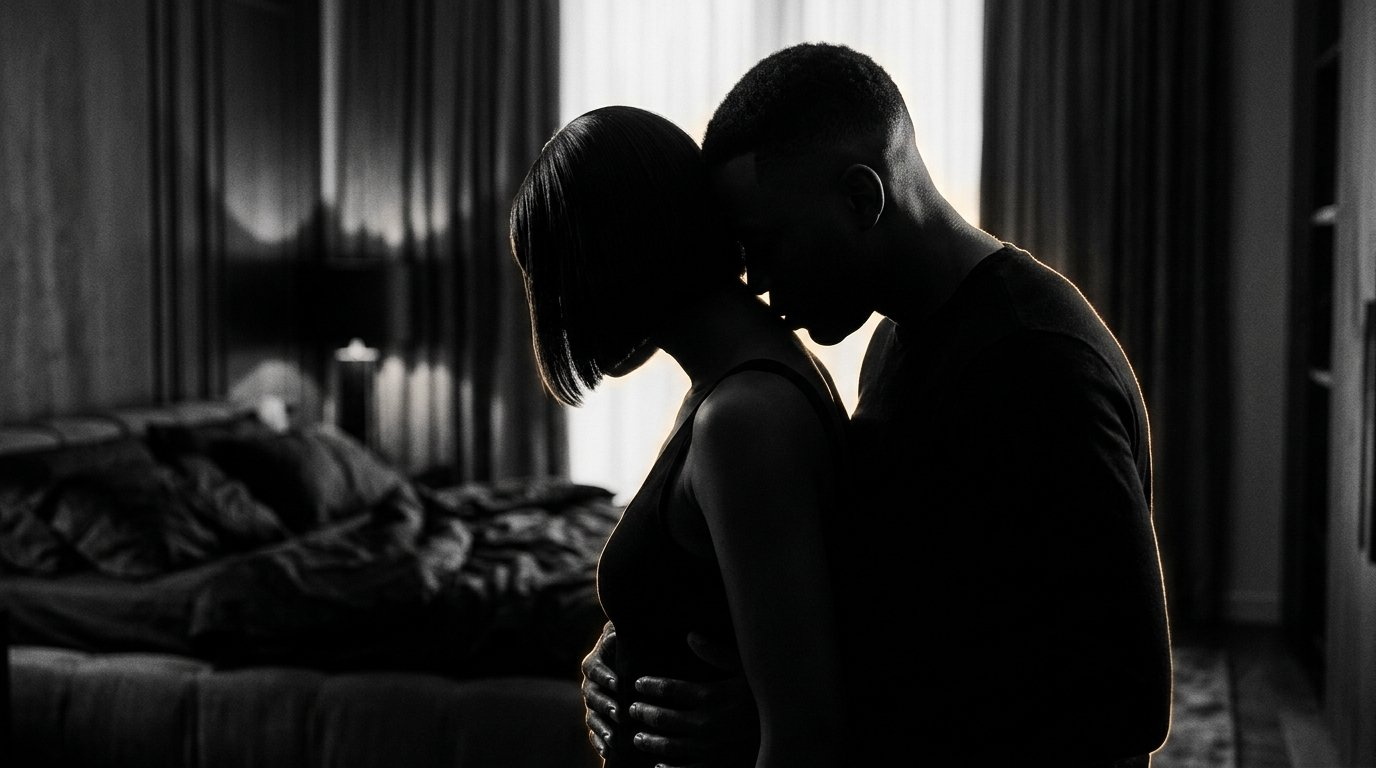
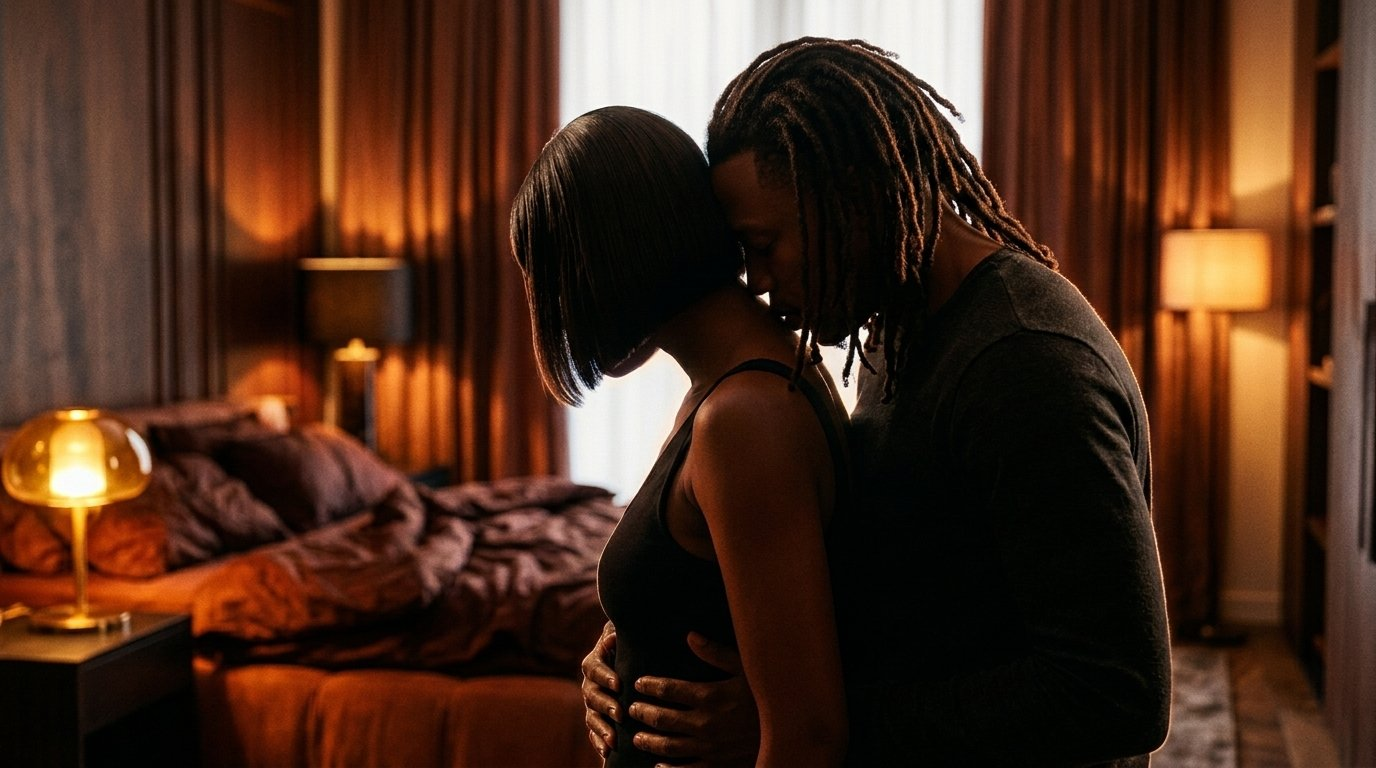
fix(blog): update couples interview hero image with warm color boudoir lighting and dreadlocks

diff --git a/src/data/articles.js b/src/data/articles.js
@@ -4,7 +4,7 @@ export const BLOG_ARTICLES = [
     searchPhrase: 'couples using sex toys interview first time',
     seoTitle: '“I Picked Up The Rose While He Was Inside Me”: A Real Couple on Toys, Kinks, and Intimacy | TheToysVirago',
     metaDesc: 'Meet Tara and Deji: the couple who proved the best bedroom upgrades don’t need a meeting. One spontaneous reach for The Rose became Deji’s best surprise ever.',
-    imgAlt: 'Moody sensual silhouette of intimate couple in luxury bedroom',
+    imgAlt: 'Warm sensual silhouette of intimate couple in luxury bedroom with dreadlocks and styled hair',
     datePublished: '2026-11-21T14:00:00+01:00',
     dateModified: '2026-11-21T14:00:00+01:00',
     title: '“I Picked Up The Rose While He Was Inside Me”: A Real Couple on Toys, Kinks, and Intimacy',
